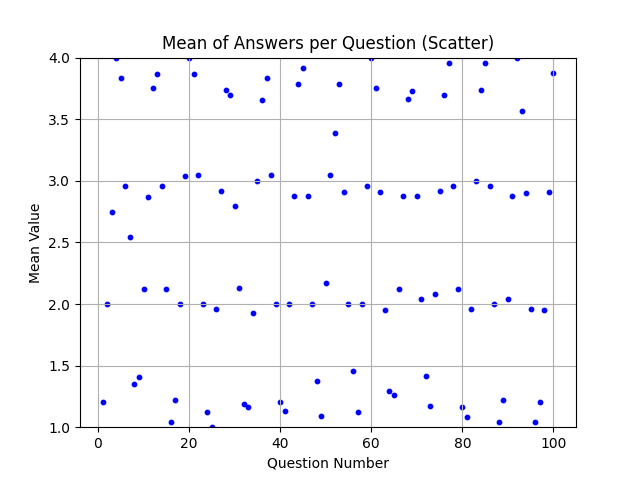
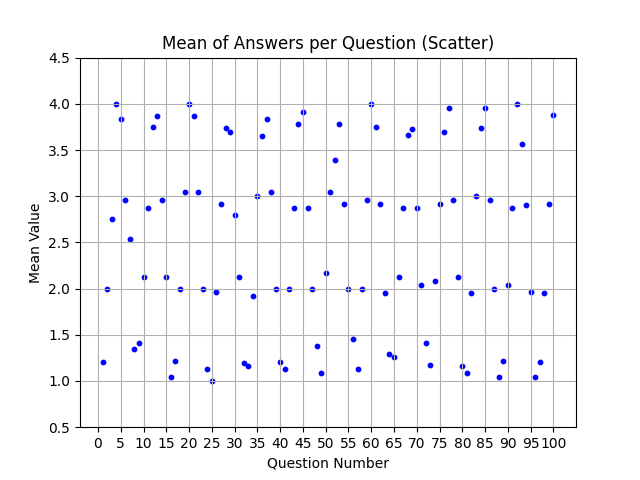
adjusted plot figure size and line style for clarity

diff --git a/scripts/data_analysis_M3.py b/scripts/data_analysis_M3.py
@@ -76,7 +76,7 @@ def visualize_data(collated_answers_path,n):
                 all_answers.append(answers)
         except:
             pass
-        
+
     if n == 1:
         mean = []
         for i in range(100):
@@ -93,18 +93,21 @@ def visualize_data(collated_answers_path,n):
         plt.title("Mean of Answers per Question (Scatter)")
         plt.xlabel("Question Number")
         plt.ylabel("Mean Value")
-        plt.ylim(1, 4)
+        plt.ylim(0.5, 4.5)
+        plt.xticks(range(0, 101, 5))
         plt.grid(True)
         plt.savefig("output/mean_scatter_plot.png") 
         plt.show()
     
     if n ==2: 
+        plt.figure(figsize=(12, 6))
         for j in all_answers:
-            plt.plot(range(1, 101), j, alpha=0.3)
+            plt.plot(range(1, 101), j, alpha=0.1, linewidth=2.0)
         plt.title("Answer Lines of All Respondents")
         plt.xlabel("Question Number")
         plt.ylabel("Answer (1-4)")
-        plt.ylim(1, 4)
+        plt.ylim(0.5, 4.5)
+        plt.xticks(range(0, 101, 5))
         plt.grid(True)
         plt.savefig("output/respondent_lines_plot.png")  
         plt.show()
